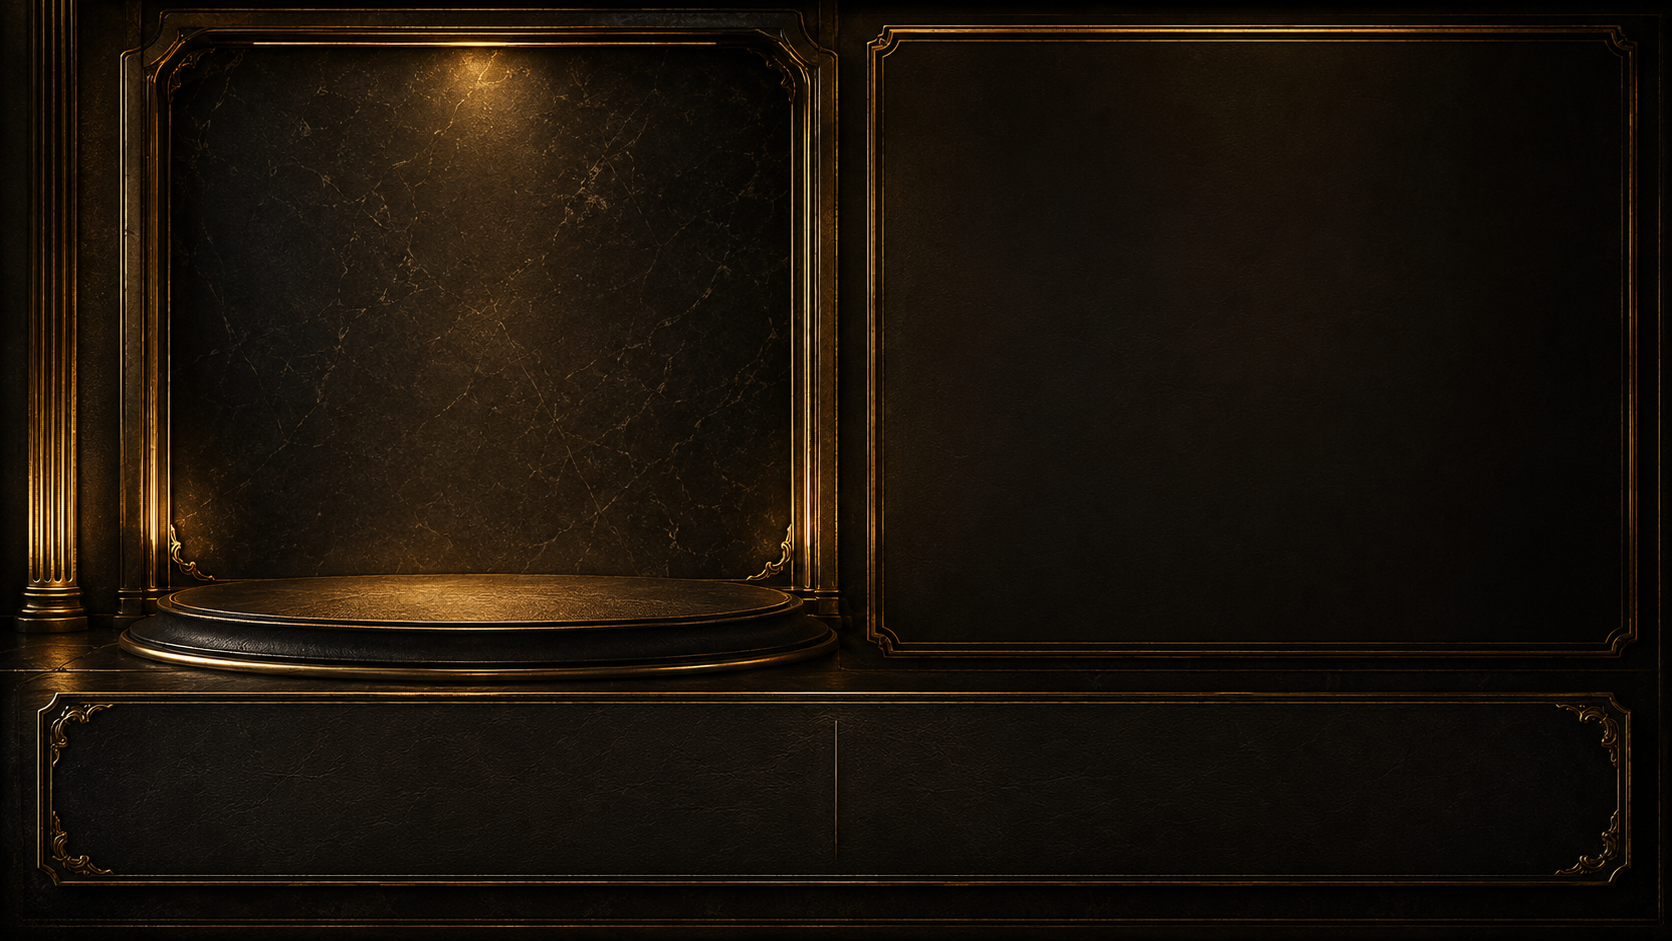
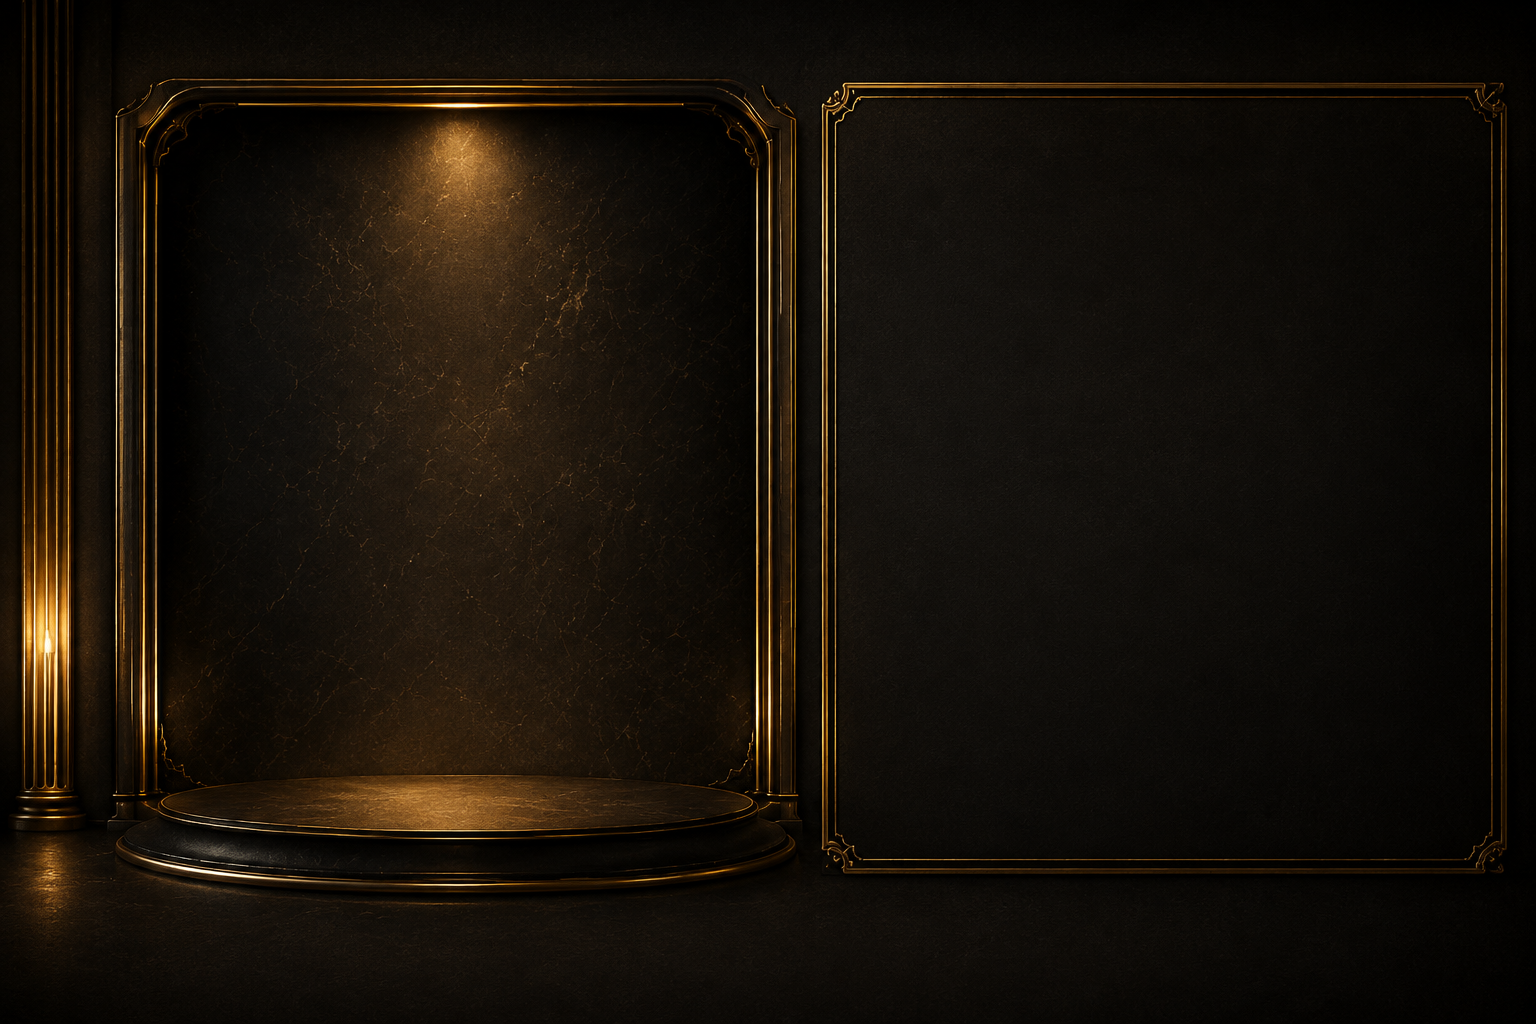
Use the new detail background and a compact includes list

Changed region(s): [[0.0, 0.0, 1.0, 0.9862], [0.2812, 0.3082, 0.3125, 0.3698], [0.875, 0.8321, 0.9062, 0.8629]]

diff --git a/founder-library-detail.css b/founder-library-detail.css
@@ -537,3 +537,38 @@ img {
     transition: none;
   }
 }
+.product-includes {
+  width: min(92%, 720px);
+  margin: 0 auto;
+  padding: 18px 28px 22px;
+  text-align: center;
+}
+
+.includes-arrow {
+  margin: 0 0 6px;
+  color: #d5aa4d;
+  font-size: 22px;
+  letter-spacing: 0;
+}
+
+.product-includes h2 {
+  margin: 0 0 14px;
+  color: #e4c77a;
+  font-size: 18px;
+  font-weight: 500;
+  letter-spacing: 0.22em;
+}
+
+.product-includes ol {
+  display: grid;
+  gap: 8px;
+  margin: 0;
+  padding: 0;
+  list-style: none;
+  color: #d8c7a4;
+  font-size: 15px;
+}
+
+.product-includes li {
+  letter-spacing: 0.04em;
+}

diff --git a/founder-library-detail.html b/founder-library-detail.html
@@ -87,7 +87,8 @@
       </article>
 
       <section class="product-includes" aria-labelledby="includes-title">
-        <h2 id="includes-title">WHAT YOU WILL GET</h2>
+        <p class="includes-arrow" aria-hidden="true">↓</p>
+        <h2 id="includes-title">WHAT’S INCLUDED</h2>
         <ol id="product-includes-list"></ol>
       </section>
 
